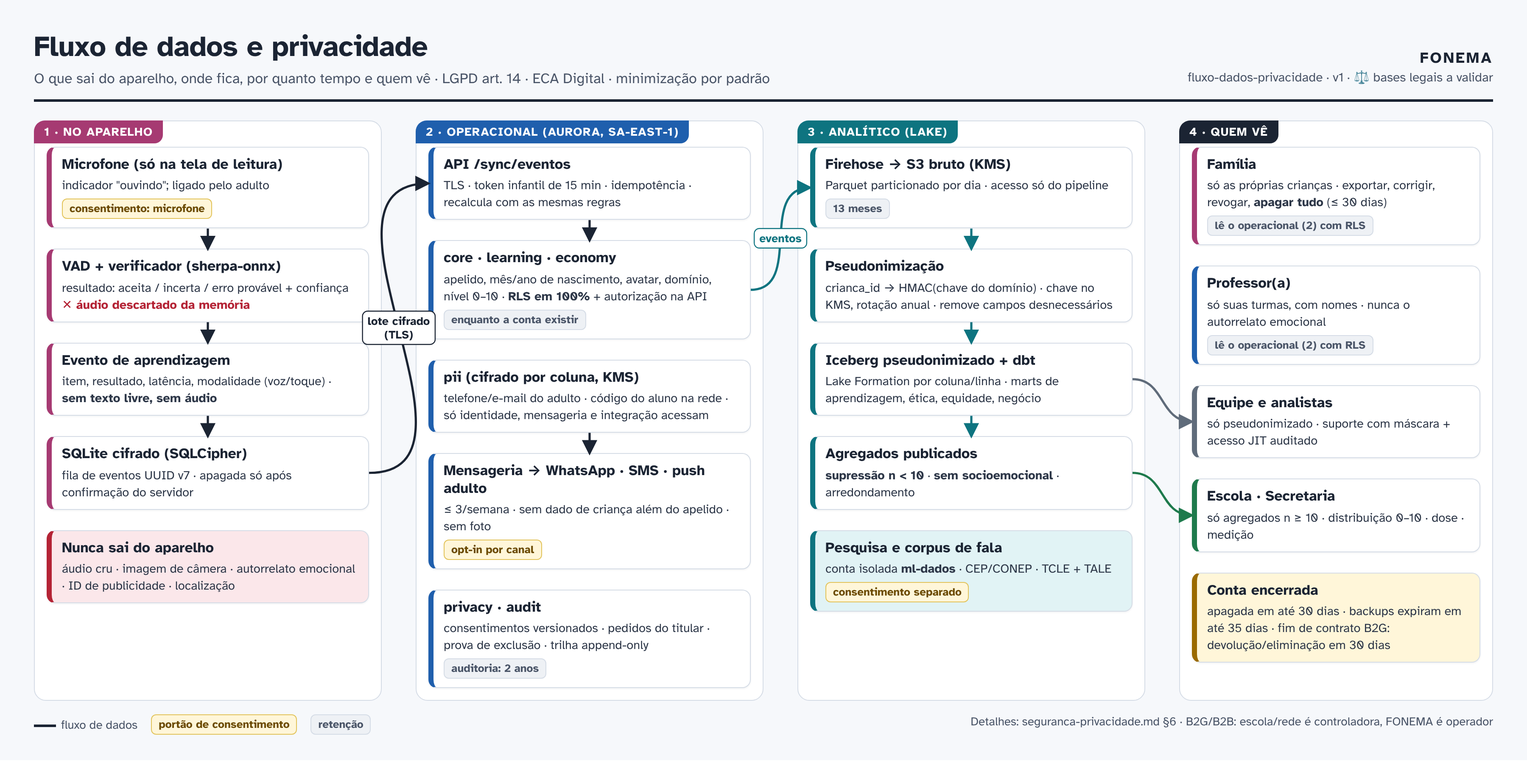
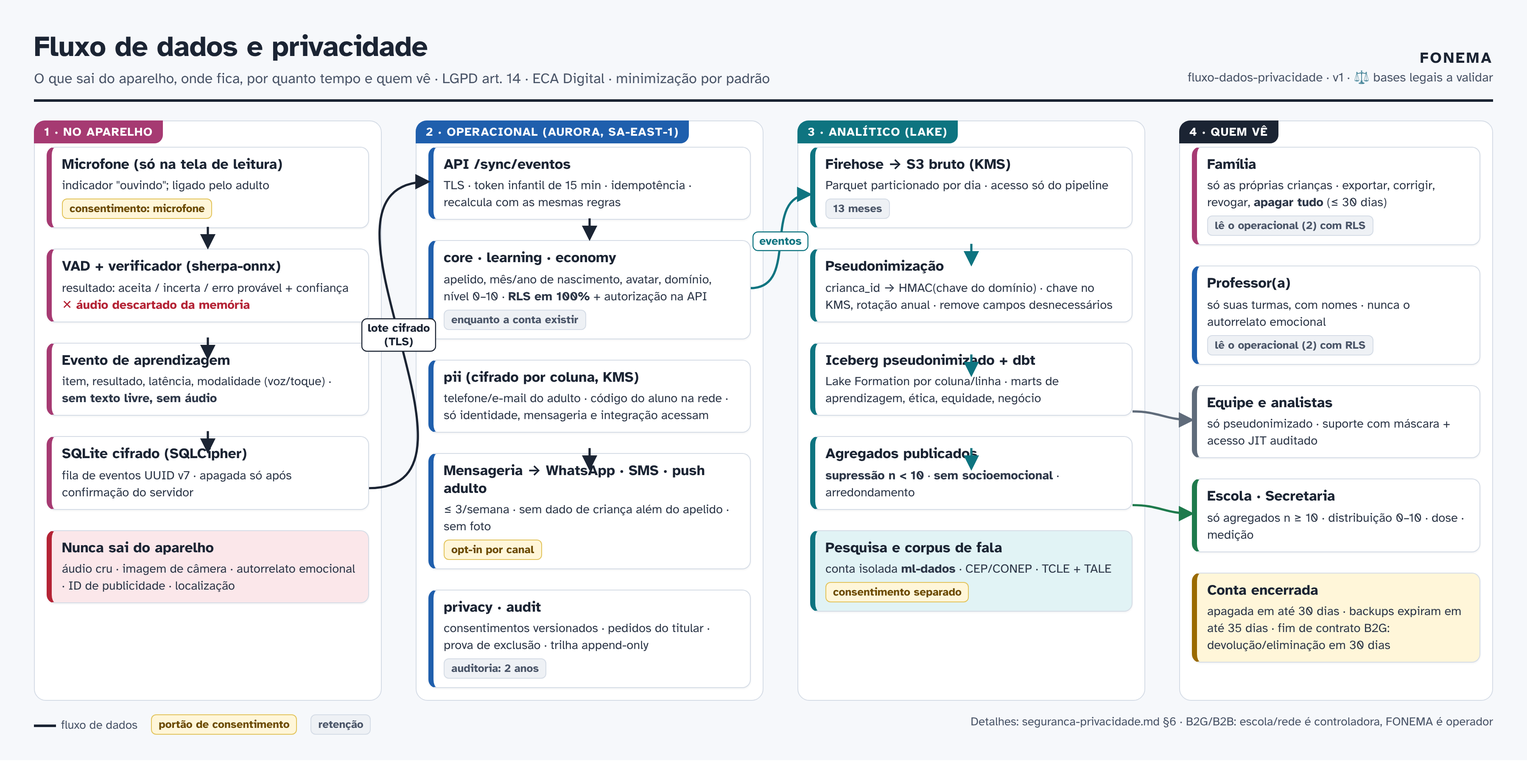
docs(proposta-unificada): arquitetura e infraestrutura unificada
Claude-Session: https://claude.ai/code/session_01XFnar5EqvbkeuXqeMQuF5Q

diff --git a/docs/propostas/06-fonema-unificada/mundo-3d/js/world.js b/docs/propostas/06-fonema-unificada/mundo-3d/js/world.js
@@ -98,7 +98,7 @@ export function makeSea(islands) {
 
 // ---------------- ILHAS-BIOMA ----------------
 export function buildIslands(ctx) {
-  const { m, d, w, group, renderer, dyn, labelSprites } = ctx;
+  const { m, d, f, w, group, renderer, dyn, labelSprites } = ctx;
   for (const I of ISLANDS) {
     const rnd = rng(I.x * 13 + I.z * 7 + 99);
     const occ = [];
@@ -113,7 +113,7 @@ export function buildIslands(ctx) {
     };
     const at = (lx, lz) => [I.x + lx, I.z + lz];
     const B = BIOMES[I.id];
-    if (B) B({ I, m, d, w, group, renderer, rnd, occ, scatter, at, GY, dyn, free });
+    if (B) B({ I, m, f, d, w, group, renderer, rnd, occ, scatter, at, GY, dyn, free });
     // pedras na praia
     for (let i = 0; i < Math.round(I.r / 3); i++) { const a = rnd() * 6.28, rr = I.r * (1.03 + rnd() * 0.12); N.rock(d, I.x + Math.cos(a) * rr, 0.1, I.z + Math.sin(a) * rr, 0.6 + rnd(), '#CDBFA8', rnd); }
     // bandeirola de progresso (ilhas concluídas / atual)
@@ -135,8 +135,8 @@ export function buildIslands(ctx) {
   }
   for (const E of EXTRA_ISLETS) {
     N.islandTerrain(m, { ...E, seed: E.x + 3, grass: '#A7D98A', grass2: '#B6E096' });
-    const rnd = rng(E.x);
-    N.palm(m, E.x, E.H, E.z, 1.2, rnd, 0.3);
+    const rnd = rng(E.x); const f = ctx.f;
+    N.palm(f, E.x, E.H, E.z, 1.2, rnd, 0.3);
     bookStack(m, E.x + 2.5, E.H, E.z + 1, rnd, 4);
   }
 }
@@ -159,7 +159,7 @@ function house(m, w, x, y, z, ry, wall, roof, s = 1) {
 }
 
 const BIOMES = {
-  vogais({ I, m, d, group, renderer, rnd, scatter, GY, occ }) {
+  vogais({ I, m, f, d, group, renderer, rnd, scatter, GY, occ }) {
     const letters = ['A', 'E', 'I', 'O', 'U'];
     const cols = ['#6B5BA8', '#7D6BC0', '#5E4E9C', '#8A78C9', '#6B5BA8'];
     letters.forEach((L, i) => {
@@ -178,10 +178,10 @@ const BIOMES = {
       m.add(G.cone8, c, M(x, GY + 1.6, z, 0, 0, 0, 4, 3.2, 4), { grad: 0.2 }); m.add(G.cone8, '#FFFBF4', M(x, GY + 1.61, z, 0, Math.PI / 8, 0, 3.9, 3.18, 3.9));
       m.add(G.box, '#7A4B2E', M(x, GY + 0.6, z + 1.5, 0, 0, 0, 0.9, 1.2, 0.3));
     });
-    scatter(6, 1.6, (x, z) => N.palm(m, x, GY, z, 1.05 + rnd() * 0.3, rnd, 0.35));
+    scatter(6, 1.6, (x, z) => N.palm(f, x, GY, z, 1.05 + rnd() * 0.3, rnd, 0.35));
     scatter(40, 0.4, (x, z, k) => N.flower(d, x, GY, z, ['#A797D6', '#F2B33D', '#FFFBF4'][k % 3], rnd, 1.1));
   },
-  mata({ I, m, d, w, group, rnd, scatter, GY, occ }) {
+  mata({ I, m, f, d, w, group, rnd, scatter, GY, occ }) {
     const mx = I.x - 4, mz = I.z - 6; occ.push([mx, mz, 9]);
     m.add(G.cone8, '#3E8A4E', M(mx, GY + 6.5, mz, 0, 0.3, 0, 20, 13, 18), { grad: 0.35, jitter: 0.08 });
     m.add(G.cone8, '#8E8A80', M(mx, GY + 11.8, mz, 0, 0.3, 0, 6.8, 3.6, 6.2), { grad: 0.3 });
@@ -192,8 +192,8 @@ const BIOMES = {
     m.add(G.cyl16, '#8FE0E8', M(mx + 2.8, GY + 0.1, mz + 10.5, 0, 0, 0, 6, 0.2, 4), { jitter: 0.02 });
     d.add(G.ico1, '#F4FFF8', M(mx + 2.7, GY + 0.35, mz + 9.2, 0, 0, 0, 2.4, 0.6, 1.2));
     occ.push([mx + 2.8, mz + 10.5, 3.2]);
-    scatter(34, 1.8, (x, z, k) => N.treeRound(m, x, GY, z, 0.9 + rnd() * 0.6, ['#2F8A49', '#3B9A52', '#2A7E43'][k % 3], '#2F7D45', rnd));
-    scatter(10, 1.5, (x, z) => N.palm(m, x, GY, z, 1.0 + rnd() * 0.3, rnd, 0.15));
+    scatter(34, 1.8, (x, z, k) => N.treeRound(f, x, GY, z, 0.9 + rnd() * 0.6, ['#2F8A49', '#3B9A52', '#2A7E43'][k % 3], '#2F7D45', rnd));
+    scatter(10, 1.5, (x, z) => N.palm(f, x, GY, z, 1.0 + rnd() * 0.3, rnd, 0.15));
     scatter(30, 0.4, (x, z) => { d.add(G.cone5, '#E04A5A', M(x, GY + 0.4, z, 0, rnd(), 0, 0.5, 0.8, 0.5)); d.add(G.cone5, '#4F9A48', M(x, GY + 0.3, z, 0, rnd(), 0, 0.8, 0.5, 0.8)); });
     // anel "você está aqui"
     const ring = new THREE.Mesh(new THREE.RingGeometry(3.2, 4.0, 48), new THREE.MeshBasicMaterial({ color: '#F2B33D', transparent: true, opacity: 0.9 }));
@@ -201,7 +201,7 @@ const BIOMES = {
     occ.push([I.x + 9, I.z + 10, 4.5]);
     ctxPins.push(new THREE.Vector3(I.x + 9, GY, I.z + 10));
   },
-  pampa({ I, m, d, group, rnd, scatter, GY, occ, dyn }) {
+  pampa({ I, m, f, d, group, rnd, scatter, GY, occ, dyn }) {
     // cata-vento (pás animadas)
     const wx = I.x + 5, wz = I.z - 3; occ.push([wx, wz, 2]);
     m.add(G.taper6, '#FFFBF4', M(wx, GY + 4.5, wz, 0, 0, 0, 1.1, 9, 1.1));
@@ -216,11 +216,11 @@ const BIOMES = {
     for (let i = 0; i < 14; i++) { const x = I.x - 12 + i * 1.9, z = I.z + 10; m.add(G.cyl5, '#8A5A3B', M(x, GY + 0.6, z, 0, 0, 0, 0.18, 1.2, 0.18)); }
     m.add(G.box, '#A86F3F', M(I.x - 12 + 13 * 0.95, GY + 0.9, I.z + 10, 0, 0, 0, 24.7, 0.14, 0.1));
     m.add(G.box, '#A86F3F', M(I.x - 12 + 13 * 0.95, GY + 0.5, I.z + 10, 0, 0, 0, 24.7, 0.14, 0.1));
-    scatter(6, 3.0, (x, z) => N.araucaria(m, x, GY, z, 1.2 + rnd() * 0.4, rnd));
+    scatter(6, 3.0, (x, z) => N.araucaria(f, x, GY, z, 1.2 + rnd() * 0.4, rnd));
     scatter(12, 1.0, (x, z) => N.sheep(m, x, GY, z, rnd() * 6, rnd));
     scatter(60, 0.3, (x, z) => N.tuft(d, x, GY, z, 1.1, '#93C25A', rnd));
   },
-  pantanal({ I, m, d, rnd, scatter, GY, occ }) {
+  pantanal({ I, m, f, d, rnd, scatter, GY, occ }) {
     [[-6, -4, 7, 5], [7, 5, 6, 4.5], [-2, 9, 4, 3]].forEach(([a, b, rx, rz]) => {
       const x = I.x + a, z = I.z + b; occ.push([x, z, Math.max(rx, rz)]);
       m.add(G.cyl16, '#BFAF87', M(x, GY + 0.04, z, 0, rnd(), 0, rx * 2.2, 0.12, rz * 2.2), { jitter: 0.05 });
@@ -229,23 +229,23 @@ const BIOMES = {
     });
     scatter(5, 1.2, (x, z) => N.tuiuiu(m, x, GY, z, rnd() * 6));
     scatter(5, 1.0, (x, z) => N.capybara(m, x, GY, z, rnd() * 6));
-    scatter(10, 1.5, (x, z) => N.palm(m, x, GY, z, 1.1 + rnd() * 0.3, rnd, 0.1));
-    scatter(8, 1.8, (x, z) => N.treeRound(m, x, GY, z, 0.9 + rnd() * 0.3, '#6DB85C', '#5DA851', rnd));
+    scatter(10, 1.5, (x, z) => N.palm(f, x, GY, z, 1.1 + rnd() * 0.3, rnd, 0.1));
+    scatter(8, 1.8, (x, z) => N.treeRound(f, x, GY, z, 0.9 + rnd() * 0.3, '#6DB85C', '#5DA851', rnd));
     scatter(60, 0.3, (x, z) => N.tuft(d, x, GY, z, 1.2, '#5DAA4E', rnd));
   },
-  cerrado({ I, m, d, rnd, scatter, GY }) {
-    scatter(8, 2.0, (x, z, k) => { N.treeIpe(m, x, GY, z, 1.0 + rnd() * 0.4, k % 2 ? '#F6C945' : '#E77FB0', rnd); N.petals(d, x, GY, z, 1, k % 2 ? '#F8D86A' : '#F2A5C8', rnd, 8); });
+  cerrado({ I, m, f, d, rnd, scatter, GY }) {
+    scatter(8, 2.0, (x, z, k) => { N.treeIpe(f, x, GY, z, 1.0 + rnd() * 0.4, k % 2 ? '#F6C945' : '#E77FB0', rnd); N.petals(d, x, GY, z, 1, k % 2 ? '#F8D86A' : '#F2A5C8', rnd, 8); });
     scatter(7, 1.0, (x, z) => m.add(G.cone6, '#C46A3B', M(x, GY + 1.0, z, 0, rnd(), 0, 1.4, 2.2 + rnd(), 1.4), { grad: 0.3 }));
-    scatter(8, 1.5, (x, z) => N.dryTree(m, x, GY, z, 0.9 + rnd() * 0.3, rnd));
+    scatter(8, 1.5, (x, z) => N.dryTree(f, x, GY, z, 0.9 + rnd() * 0.3, rnd));
     scatter(70, 0.3, (x, z) => N.tuft(d, x, GY, z, 1.3, '#D8C46A', rnd));
   },
-  caatinga({ I, m, d, w, rnd, scatter, GY, occ }) {
+  caatinga({ I, m, f, d, w, rnd, scatter, GY, occ }) {
     house(m, w, I.x - 3, GY, I.z + 4, 0.4, '#F4EBDD', '#B5502C', 1.2); occ.push([I.x - 3, I.z + 4, 3.5]);
     scatter(12, 1.4, (x, z) => N.cactus(m, x, GY, z, 0.9 + rnd() * 0.6, rnd));
-    scatter(8, 1.4, (x, z) => N.dryTree(m, x, GY, z, 1.0, rnd));
+    scatter(8, 1.4, (x, z) => N.dryTree(f, x, GY, z, 1.0, rnd));
     scatter(14, 1.0, (x, z) => N.rock(m, x, GY, z, 0.8 + rnd() * 1.2, '#C9A97F', rnd));
   },
-  amazonia({ I, m, d, w, group, rnd, scatter, GY, occ }) {
+  amazonia({ I, m, f, d, w, group, rnd, scatter, GY, occ }) {
     // rio cruzando a ilha
     const rv = new THREE.Mesh(new THREE.PlaneGeometry(I.r * 2.3, 7, 20, 1), new THREE.MeshStandardMaterial({ color: '#3FA6B8', roughness: 0.35 }));
     const pa = rv.geometry.attributes.position; for (let i = 0; i < pa.count; i++) pa.setY(i, pa.getY(i) + Math.sin(pa.getX(i) * 0.15) * 3);
@@ -256,11 +256,11 @@ const BIOMES = {
     const hx = I.x + 8, hz = I.z + 10; occ.push([hx, hz, 3]);
     [[-1.4, -1.2], [1.4, -1.2], [-1.4, 1.2], [1.4, 1.2]].forEach(([a, b]) => m.add(G.cyl5, '#7A4B2E', M(hx + a, GY + 0.8, hz + b, 0, 0, 0, 0.25, 1.6, 0.25)));
     house(m, w, hx, GY + 1.5, hz, -0.4, '#C98E58', '#C9B061', 1.0);
-    scatter(40, 2.2, (x, z, k) => N.bigTree(m, x, GY, z, 0.75 + rnd() * 0.45, rnd, ['#2F8A49', '#267A3E', '#3A9A50'][k % 3], '#2A8143'));
-    scatter(12, 1.4, (x, z) => N.palm(m, x, GY, z, 1.2, rnd, 0.1));
+    scatter(40, 2.2, (x, z, k) => N.bigTree(f, x, GY, z, 0.75 + rnd() * 0.45, rnd, ['#2F8A49', '#267A3E', '#3A9A50'][k % 3], '#2A8143'));
+    scatter(12, 1.4, (x, z) => N.palm(f, x, GY, z, 1.2, rnd, 0.1));
     scatter(6, 0.5, (x, z) => d.add(G.ico1, '#E0403A', M(x, GY + 5 + rnd() * 2, z, 0, 0, 0, 0.6, 0.45, 0.9)));
   },
-  litoral({ I, m, d, w, rnd, scatter, GY, occ }) {
+  litoral({ I, m, f, d, w, rnd, scatter, GY, occ }) {
     // farol listrado
     const fx = I.x + 8, fz = I.z - 6; occ.push([fx, fz, 2.5]);
     for (let i = 0; i < 5; i++) m.add(G.cyl12, i % 2 ? '#FFFBF4' : '#C9553A', M(fx, GY + 1 + i * 2, fz, 0, 0, 0, 3.2 - i * 0.22, 2, 3.2 - i * 0.22));
@@ -269,12 +269,12 @@ const BIOMES = {
     m.add(G.cone8, '#C9553A', M(fx, GY + 12.5, fz, 0, 0, 0, 2.2, 1.3, 2.2));
     // casinhas coloridas
     [['#F2B33D', -8, 2], ['#7FB3D5', -4, 6], ['#E58FA4', 0, 8.5], ['#7DC48A', 4.5, 8]].forEach(([c, a, b]) => { house(m, w, I.x + a, GY, I.z + b, 0.2, c, '#A9472A', 0.9); occ.push([I.x + a, I.z + b, 2.4]); });
-    scatter(9, 1.4, (x, z) => N.palm(m, x, GY, z, 1.1 + rnd() * 0.3, rnd, 0.4));
+    scatter(9, 1.4, (x, z) => N.palm(f, x, GY, z, 1.1 + rnd() * 0.3, rnd, 0.4));
     // guarda-sóis na areia
     for (let i = 0; i < 4; i++) { const a = 1.2 + i * 0.35, rr = I.r * 1.2; const x = I.x + Math.cos(a) * rr, z = I.z + Math.sin(a) * rr;
       m.add(G.cyl5, '#FFFBF4', M(x, 1.6, z, 0, 0, 0, 0.1, 3, 0.1)); m.add(G.cone8, ['#B23C62', '#F2B33D', '#1F6E82', '#E07F62'][i], M(x, 3.1, z, 0, 0, 0, 3, 0.8, 3)); }
   },
-  cidade({ I, m, d, w, group, renderer, rnd, scatter, GY, occ }) {
+  cidade({ I, m, f, d, w, group, renderer, rnd, scatter, GY, occ }) {
     m.add(G.cyl24, '#E6D6BE', M(I.x, GY + 0.06, I.z, 0, 0, 0, I.r * 1.2, 0.12, I.r * 1.2), { jitter: 0.03 });
     const letters = 'BCDFLMNPRSTV'.split('');
     const cols = ['#1F6E82', '#B23C62', '#2F8A49', '#E07F62', '#F2B33D', '#6B5BA8'];
@@ -293,9 +293,9 @@ const BIOMES = {
     // torre do relógio
     m.add(G.box, '#FFFBF4', M(I.x, GY + 5, I.z, 0, 0.3, 0, 3.2, 10, 3.2)); m.add(G.pyr, '#1F6E82', M(I.x, GY + 11.5, I.z, 0, 0.3, 0, 5, 3, 5));
     m.add(G.cyl16, '#F2B33D', M(I.x, GY + 8.4, I.z, Math.PI / 2, 0.3, 0, 2.2, 3.4, 2.2)); occ.push([I.x, I.z, 3]);
-    scatter(10, 1.2, (x, z) => N.treeRound(m, x, GY, z, 0.8, '#5DAE57', '#4C9A4A', rnd));
+    scatter(10, 1.2, (x, z) => N.treeRound(f, x, GY, z, 0.8, '#5DAE57', '#4C9A4A', rnd));
   },
-  livros({ I, m, d, rnd, scatter, GY, occ }) {
+  livros({ I, m, f, d, rnd, scatter, GY, occ }) {
     // livro aberto gigante
     const x = I.x - 2, z = I.z + 1; occ.push([x, z, 6]);
     m.add(G.box, '#B23C62', M(x, GY + 0.35, z, 0, 0.3, 0, 11, 0.5, 7.6));
@@ -308,7 +308,7 @@ const BIOMES = {
       m.add(G.box, '#FFF4E2', M(bx, GY + h / 2, bz, 0, i * 0.4, 0, 1.2, h - 0.3, 4.5));
     });
     scatter(4, 2.2, (x2, z2) => bookStack(m, x2, GY, z2, rnd, 3 + Math.floor(rnd() * 3), 0.8));
-    scatter(6, 1.4, (x2, z2) => N.treeRound(m, x2, GY, z2, 0.9, '#6CB85E', '#5DAE57', rnd));
+    scatter(6, 1.4, (x2, z2) => N.treeRound(f, x2, GY, z2, 0.9, '#6CB85E', '#5DAE57', rnd));
   },
 };
 export const ctxPins = [];

diff --git a/docs/propostas/06-fonema-unificada/lojinha-emblemas/fontes/tela-casa-decorada.html b/docs/propostas/06-fonema-unificada/lojinha-emblemas/fontes/tela-casa-decorada.html
@@ -1,0 +1,88 @@
+<!doctype html><html lang="pt-BR"><head><meta charset="utf-8"><link rel="stylesheet" href="common.css">
+<style>
+body{background:#F3D9B4}
+.a{position:absolute}
+.top{position:absolute;left:20px;right:20px;top:14px;display:flex;align-items:center;gap:12px;z-index:20}
+.voltar{width:54px;height:54px;border-radius:18px;background:#FFFBF4;box-shadow:0 4px 0 #C9A57A;display:flex;align-items:center;justify-content:center}
+.titulo{font-family:Fredoka;font-weight:700;font-size:26px;background:#FFFBF4;border-radius:18px;padding:8px 18px;box-shadow:0 4px 0 #C9A57A}
+.modo{display:flex;background:#FFFBF4;border-radius:16px;padding:4px;box-shadow:0 4px 0 #C9A57A}
+.modo span{font-family:Fredoka;font-weight:600;font-size:15px;padding:8px 14px;border-radius:12px}
+.modo .on{background:#2F6B43;color:#fff}
+.gav{position:absolute;left:20px;bottom:14px;width:900px;height:112px;border-radius:22px;background:rgba(255,251,244,.94);box-shadow:0 -2px 0 #EAD8BE,0 10px 24px -6px rgba(70,35,10,.45);z-index:20;padding:8px 14px}
+.gav .its{display:flex;gap:10px;margin-top:4px}
+.gav .g{width:74px;height:74px;border-radius:16px;background:#FFF1D8;border:2px solid #F1E2CB;display:flex;align-items:center;justify-content:center}
+.vit{position:absolute;left:944px;top:96px;width:316px;height:560px;z-index:6}
+.sel{position:absolute;border:3px dashed #F2B33D;border-radius:20px;z-index:9}
+.hd{position:absolute;width:34px;height:34px;border-radius:50%;background:#FFFBF4;box-shadow:0 3px 0 #C9A57A;display:flex;align-items:center;justify-content:center}
+</style></head><body>
+<svg class="a" style="left:0;top:0" width="1280" height="800" viewBox="0 0 1280 800" id="sala"></svg>
+<div id="moveis"></div>
+<div class="top">
+ <div class="voltar"><svg width="30" height="30" viewBox="0 0 20 20"><path d="M12,4 L6,10 L12,16" stroke="#7A4B2E" stroke-width="3.2" fill="none" stroke-linecap="round" stroke-linejoin="round"/></svg></div>
+ <div class="titulo">Casa da Lia</div>
+ <div class="modo"><span>Passear</span><span class="on">Arrumar</span></div>
+ <div style="flex:1"></div>
+ <div class="btn btn-sol" style="height:54px;padding:0 20px;font-size:17px"><svg width="24" height="24" viewBox="0 0 24 24"><rect x="3" y="6" width="18" height="13" rx="3" fill="#3B2A20"/><circle cx="12" cy="12.5" r="4" fill="#F2B33D"/><rect x="8" y="3" width="8" height="4" rx="1" fill="#3B2A20"/></svg>Mostrar para a família</div>
+</div>
+<div class="vit" id="vit"></div>
+<div class="gav"><div class="t" style="font-weight:700;font-size:15px;display:flex;justify-content:space-between"><span>Meus guardados <span style="font-family:Andika;font-weight:400;color:#6E5D52;font-size:13px">· toque e arraste para a casa</span></span><span style="font-family:Andika;font-weight:400;color:#6E5D52;font-size:13px">Tudo que você compra é seu para sempre</span></div><div class="its" id="its"></div></div>
+<div class="nota" style="left:952px;top:676px;max-width:300px">"Mostrar" envia uma foto da casa <b>só para o painel da família</b>. Sem visitar casas de outras crianças, sem curtidas, sem ranking.</div>
+<script src="base.js"></script><script src="chars.js"></script>
+<script>
+const {Ctx,lt,dk}=FX;
+(function(){const c=new Ctx();
+const wall=c.stops([[0,'#FBE7C6'],[1,'#F3D2A2']]);
+let stripes='';for(let x=0;x<1280;x+=48)stripes+=`<rect x="${x}" y="0" width="24" height="560" fill="#fff" opacity=".18"/>`;
+let dots='';for(let x=24;x<1280;x+=48)for(let y=40;y<540;y+=60)dots+=`<circle cx="${x+((y/60)%2)*0}" cy="${y}" r="3" fill="#E8B57A" opacity=".5"/>`;
+let planks='';for(let i=-12;i<=28;i++){const xb=640+i*90, xt=640+i*48;planks+=`<path d="M${xt},560 L${xb},800" stroke="#9A6234" stroke-width="2" opacity=".35"/>`}
+for(let y of [600,650,712])planks+=`<path d="M0,${y} H1280" stroke="#9A6234" stroke-width="1.5" opacity=".25"/>`;
+// janela com a vila
+const vila=`<g transform="translate(372,120)"><rect x="-14" y="-14" width="288" height="248" rx="14" fill="${c.l('#FFFBF4')}" stroke="#C9A57A" stroke-width="4"/>
+<clipPath id="jan"><rect width="260" height="220" rx="6"/></clipPath><g clip-path="url(#jan)"><rect width="260" height="220" fill="${c.stops([[0,'#8FCFE3'],[1,'#DFF1F2']])}"/>
+<circle cx="210" cy="44" r="20" fill="${c.r('#F2B33D',{hi:.6})}"/><ellipse cx="60" cy="40" rx="30" ry="10" fill="#fff" opacity=".85"/><ellipse cx="80" cy="34" rx="20" ry="10" fill="#fff" opacity=".85"/>
+<path d="M0,150 q70,-40 140,-10 q60,-30 120,-6 v90 h-260z" fill="${c.l('#7FB06A')}"/><path d="M0,180 q120,-24 260,0 v40 h-260z" fill="${c.l('#5E9E5A')}"/>
+<g transform="translate(16,96) scale(.55)">${padaria(true).replace(/<\/?svg[^>]*>/g,'')}</g>
+<g transform="translate(150,104) scale(.45)">${item('coreto').replace(/<\/?svg[^>]*>/g,'')}</g>
+<g transform="translate(206,118) scale(.32)">${item('moinho').replace(/<\/?svg[^>]*>/g,'')}</g></g>
+<rect x="128" y="0" width="6" height="220" fill="#FFFBF4"/><rect x="0" y="108" width="260" height="6" fill="#FFFBF4"/>
+<path d="M-24,-20 q40,120 10,250 h-20z M284,-20 q-40,120 -10,250 h20z" fill="${c.l('#B23C62')}" opacity=".95"/>
+<rect x="-34" y="-26" width="328" height="12" rx="6" fill="${c.l('#7A4B2E')}"/>
+<rect x="-24" y="230" width="308" height="14" rx="5" fill="${c.l('#C08A4E')}"/></g>`;
+sala.innerHTML=c.svg(`<rect width="1280" height="560" fill="${wall}"/>${stripes}
+<rect y="530" width="1280" height="30" fill="${c.l('#C08A4E')}"/>
+<path d="M0,560 H1280 V800 H0Z" fill="${c.stops([[0,'#C99A66'],[1,'#B07D4A']])}"/>${planks}
+<rect width="1280" height="800" fill="${c.stops([[0,'#fff',0],[.6,'#fff',0],[1,'#3b1d0c',.18]],[50,40,80],true)}"/>
+${vila}${(()=>{const cols=['#D9483B','#F2B33D','#1F6E82','#2F6B43','#B23C62','#E8792E','#6B5BA8'];let o='';for(let seg=0;seg<3;seg++){const x0=seg*430-20,x1=x0+440;o+=`<path d="M${x0},78 Q${(x0+x1)/2},128 ${x1},78" stroke="#7A4B2E" stroke-width="3" fill="none"/>`;for(let i=1;i<11;i++){const t=i/11,x=x0+(x1-x0)*t,y=78+4*t*(1-t)*25-1;const col=cols[(i+seg*3)%7];o+=`<path d="M${x-14},${y} h28 l-14,30z" fill="${c.l(col,{dir:[0,0,1,1]})}" stroke="${FX.S(col)}" stroke-width="1.5"/>`}}return o})()}
+<ellipse cx="500" cy="200" rx="300" ry="220" fill="#FFF6D8" opacity=".25"/>`,'0 0 1280 800','width="1280" height="800"').replace(/^<svg[^>]*>|<\/svg>$/g,'');
+})();
+const P=(k,x,y,s,extra='')=>`<div class="a" style="left:${x}px;top:${y}px;${extra}">${item(k,`width="${s}" height="${s}"`)}</div>`;
+let m='';
+// bandeirinhas no teto
+m+=P('quadro',212,128,132);
+m+=P('pandeiro',672,130,96);
+m+=P('estante',8,268,300);
+m+=P('rede',650,190,250);
+m+=P('sofa',330,340,290);
+m+=P('vaso',262,400,140);
+m+=P('tapete',370,430,360);
+m+=P('capivara',450,486,160);
+m+=P('sanfona',160,552,110);
+m+=`<div class="a" style="left:750px;top:330px">${lia({pose:'acena',bone:'#D9483B',attrs:'width="176" height="260"'})}</div>`;
+m+=`<div class="a" style="left:640px;top:556px">${bolota({attrs:'width="140" height="98"'})}</div>`;
+m+=`<div class="sel" style="left:446px;top:496px;width:170px;height:132px"></div>
+<div class="hd" style="left:430px;top:480px;z-index:10"><svg width="18" height="18" viewBox="0 0 20 20"><path d="M10,2 v16 M2,10 h16 M10,2 l-3,3 M10,2 l3,3 M10,18 l-3,-3 M10,18 l3,-3 M2,10 l3,-3 M2,10 l3,3 M18,10 l-3,-3 M18,10 l-3,3" stroke="#7A4B2E" stroke-width="2" fill="none"/></svg></div>
+<div class="hd" style="left:598px;top:480px;z-index:10"><svg width="18" height="18" viewBox="0 0 20 20"><path d="M16,10 a6,6 0 1 1 -2,-4.5 M16,3 v4 h-4" stroke="#7A4B2E" stroke-width="2.2" fill="none" stroke-linecap="round"/></svg></div>
+<div class="bal" style="left:478px;top:446px;font-size:13px;padding:5px 10px;z-index:11;font-family:Fredoka;font-weight:600">CAPIVARA</div>`;
+moveis.innerHTML=m;
+// vitrine
+vit.innerHTML=`<div style="position:absolute;inset:0;border-radius:22px;background:linear-gradient(180deg,#9A6234,#7A4B2E);box-shadow:0 8px 0 #5A3218,0 18px 26px -8px rgba(60,30,10,.5)"></div>
+<div style="position:absolute;left:12px;right:12px;top:56px;bottom:14px;border-radius:12px;background:linear-gradient(160deg,rgba(255,255,255,.55),rgba(220,240,245,.35) 40%,rgba(255,255,255,.15));box-shadow:inset 0 0 0 3px rgba(255,255,255,.35)"></div>
+<div class="t" style="position:absolute;left:0;right:0;top:12px;text-align:center"><span style="background:#F2B33D;color:#3B2A20;font-weight:700;font-size:17px;letter-spacing:2px;padding:5px 16px;border-radius:12px;box-shadow:0 3px 0 #B9781A">MINHA VITRINE</span></div>
+${[200,356,500].map(y=>`<div style="position:absolute;left:12px;right:12px;top:${y}px;height:12px;background:linear-gradient(180deg,#C0864E,#8A5228)"></div>`).join('')}
+<div style="position:absolute;left:20px;top:82px;display:flex;gap:2px">${[['persist','ouro'],['som','prata','M'],['poupador','prata']].map(([f,t,L])=>emblema(f,t,{letra:L,attrs:'width="90" height="99"'})).join('')}</div>
+<div style="position:absolute;left:26px;top:224px;display:flex;gap:6px">${['fig_ipe','fig_onca','fig_caju'].map(k=>item(k,'width="84" height="84"')).join('')}</div>
+<div class="ad" style="position:absolute;left:24px;top:314px;font-size:11.5px;color:#FFF4E2">Figurinhas: toque e elas falam a palavra</div>
+<div style="position:absolute;left:30px;top:378px;display:flex;gap:16px;align-items:flex-end">${item('banca','width="110" height="110"')}<div style="background:#FFFBF4;border-radius:12px;padding:8px 10px;width:130px;font-size:12.5px;line-height:1.25;box-shadow:0 3px 0 #C9A57A"><b class="t" style="font-size:14px">12 livros lidos</b><br>"A noite do lobo" é o mais novo</div></div>
+<div class="ad" style="position:absolute;left:20px;right:20px;top:516px;font-size:11.5px;color:#FFF4E2;line-height:1.25">A vitrine guarda o que você <b>conquistou</b>: emblemas, figurinhas e livros lidos.</div>`;
+its.innerHTML=['pipa','piao','chocalho','mascara','fogueira','tiara','mochila','tambor','micanga','fonte'].map(k=>`<div class="g">${item(k,'width="62" height="62"')}</div>`).join('');
+</script></body></html>

diff --git a/docs/propostas/06-fonema-unificada/mundo-3d/js/vila.js b/docs/propostas/06-fonema-unificada/mundo-3d/js/vila.js
@@ -10,7 +10,7 @@ export const VILA = { x: 0, z: 0, r: 44, H: 2.5 };
 const GY = VILA.H;
 
 export function buildVila(ctx) {
-  const { m, d, w, thin, group, renderer, signMats } = ctx;
+  const { m, d, f, w, thin, group, renderer, signMats } = ctx;
   const rnd = rng(42);
   const occ = []; // áreas ocupadas (x, z, raio)
   const lampTops = [];
@@ -324,8 +324,8 @@ export function buildVila(ctx) {
     m.add(G.box, '#B23C62', M(cp.x, GY + 1.3, cp.z, 0, casa.ry, 0, 0.5, 0.4, 0.7));
     N.dog(m, L.pt(1.6, 0, dz + 2.6).x, GY + 0.35, L.pt(1.6, 0, dz + 2.6).z, casa.ry + 0.8);
     N.cat(m, L.pt(3.5, 0, dz + 0.4).x, GY + 0.5, L.pt(3.5, 0, dz + 0.4).z, casa.ry - 0.6);
-    const mt = L.pt(-8.2, 0, 1.0); N.treeFruit(m, mt.x, GY, mt.z, 1.35, '#F28B2E', rnd); occupy(mt.x, mt.z, 2.6);
-    const mt2 = L.pt(8.4, 0, -1.0); N.banana(m, mt2.x, GY, mt2.z, 1.3, rnd); occupy(mt2.x, mt2.z, 1.8);
+    const mt = L.pt(-8.2, 0, 1.0); N.treeFruit(f, mt.x, GY, mt.z, 1.35, '#F28B2E', rnd); occupy(mt.x, mt.z, 2.6);
+    const mt2 = L.pt(8.4, 0, -1.0); N.banana(f, mt2.x, GY, mt2.z, 1.3, rnd); occupy(mt2.x, mt2.z, 1.8);
     for (let i = 0; i < 14; i++) { const p = L.pt(-5.4 + rnd() * 1.4, 0, dz + 0.6 + rnd() * 3.4); N.flower(d, p.x, GY, p.z, ['#E8547A', '#F2B33D', '#FFFBF4'][i % 3], rnd, 1.1); }
     occupy(L.pt(0, 0, dz + 2.2).x, L.pt(0, 0, dz + 2.2).z, 5.5);
   }
@@ -493,14 +493,14 @@ export function buildVila(ctx) {
     ['palm', -7, 37, 1.25], ['ipeAmarelo', -36, 8, 1.1], ['banana', -16, 16, 1.0],
   ];
   for (const [k, x, z, s] of trees) {
-    if (k === 'ipeRosa') { N.treeIpe(m, x, GY, z, s, '#E77FB0', rnd); N.petals(d, x, GY, z, s, '#F2A5C8', rnd); }
-    else if (k === 'ipeAmarelo') { N.treeIpe(m, x, GY, z, s, '#F6C945', rnd); N.petals(d, x, GY, z, s, '#F8D86A', rnd); }
-    else if (k === 'laranja') N.treeFruit(m, x, GY, z, s, '#F28B2E', rnd);
-    else if (k === 'manga') N.treeFruit(m, x, GY, z, s, '#F2C14A', rnd);
-    else if (k === 'caju') N.treeFruit(m, x, GY, z, s, '#E04A3A', rnd);
-    else if (k === 'banana') N.banana(m, x, GY, z, s, rnd);
-    else if (k === 'palm') N.palm(m, x, GY, z, s, rnd, 0.3);
-    else N.treeRound(m, x, GY, z, s, '#5DAE57', '#4C9A4A', rnd);
+    if (k === 'ipeRosa') { N.treeIpe(f, x, GY, z, s, '#E77FB0', rnd); N.petals(d, x, GY, z, s, '#F2A5C8', rnd); }
+    else if (k === 'ipeAmarelo') { N.treeIpe(f, x, GY, z, s, '#F6C945', rnd); N.petals(d, x, GY, z, s, '#F8D86A', rnd); }
+    else if (k === 'laranja') N.treeFruit(f, x, GY, z, s, '#F28B2E', rnd);
+    else if (k === 'manga') N.treeFruit(f, x, GY, z, s, '#F2C14A', rnd);
+    else if (k === 'caju') N.treeFruit(f, x, GY, z, s, '#E04A3A', rnd);
+    else if (k === 'banana') N.banana(f, x, GY, z, s, rnd);
+    else if (k === 'palm') N.palm(f, x, GY, z, s, rnd, 0.3);
+    else N.treeRound(f, x, GY, z, s, '#5DAE57', '#4C9A4A', rnd);
     occupy(x, z, 1.6 * s);
   }
   // árvores extras na borda + arbustos + flores + pedras (detalhe)
@@ -511,7 +511,7 @@ export function buildVila(ctx) {
     if (Math.abs(Math.atan2(22, 62) - a) < 0.15) continue; // ponte
     if (!free(x, z, 1.8)) continue;
     const s = 0.9 + rnd() * 0.5;
-    if (rnd() < 0.3) N.palm(m, x, GY, z, s, rnd, 0.35); else N.treeRound(m, x, GY, z, s, ['#5DAE57', '#68B85C', '#4FA350'][placed % 3], '#4C9A4A', rnd);
+    if (rnd() < 0.3) N.palm(f, x, GY, z, s, rnd, 0.35); else N.treeRound(f, x, GY, z, s, ['#5DAE57', '#68B85C', '#4FA350'][placed % 3], '#4C9A4A', rnd);
     occupy(x, z, 1.8 * s); placed++;
   }
   for (let i = 0; i < 700; i++) {

diff --git a/docs/propostas/06-fonema-unificada/arquitetura-infra/fontes/offline-sala-de-aula.html b/docs/propostas/06-fonema-unificada/arquitetura-infra/fontes/offline-sala-de-aula.html
@@ -6,7 +6,7 @@
 .meio{display:grid;grid-template-columns:1040px 1fr;gap:110px}
 .escola>.rot{background:var(--verde)}.nuvem>.rot{background:var(--laranja)}.nuvem{border-color:#F0B37E;background:#FFFBF6}
 .esc{display:grid;grid-template-columns:1fr 300px;gap:20px}
-.tabs{display:grid;grid-template-columns:1fr 1fr;gap:14px}
+.tabs{display:grid;grid-template-columns:1fr 1fr;gap:14px;border:2.5px dashed #8E76D0;border-radius:16px;padding:30px 10px 10px;position:relative}.tabs:before{content:"rede local da sala (Wi-Fi sem internet) ↔ hub da professora";position:absolute;top:6px;left:12px;font-size:13.5px;font-weight:700;color:var(--roxo)}
 .tab{border:3px solid #2B3445;border-radius:18px;padding:10px 12px;background:#fff}
 .tab h3{font-size:16px}.tab p{font-size:13.5px;line-height:1.35;color:#2D3748}
 .tab .chips .chip{font-size:12.8px}
@@ -56,8 +56,6 @@ desenhar([
  ['t1','t2',{de:'r',para:'l',horiz:true}],['t2','t3',{de:'r',para:'l',horiz:true}],['t3','t4',{de:'r',para:'l',horiz:true}],
  ['cdn','escola',{de:'l',para:'r',cor:'#0E7480',horiz:true,rot:'noite: pacotes',t:.5}],
  ['ps','escola',{de:'l',para:'r',cor:'#1E7A4C',tr:true,horiz:true,rot:'dados da turma',t:.5}],
- ['escola','api',{de:'r',para:'l',cor:'#1F5FAD',duplo:false,horiz:false,rot:'depois: lotes',t:.5,da:150}],
- ['hub','tb2',{de:'l',para:'r',cor:'#5B3FA6',tr:true,duplo:true}],
- ['hub','tb4',{de:'l',para:'r',cor:'#5B3FA6',tr:true,duplo:true}],
+ ['api','escola',{de:'l',para:'r',cor:'#1F5FAD',horiz:true,rot:'depois: lotes',t:.5,inverso:true}],
 ]);
 </script></body></html>

diff --git a/docs/propostas/06-fonema-unificada/personagens/fonte/pages.js b/docs/propostas/06-fonema-unificada/personagens/fonte/pages.js
@@ -255,7 +255,7 @@ function telaEspelho() {
   // palco principal
   g += `<rect x="20" y="108" width="${W - 40}" height="672" rx="40" fill="#FFFBF4" stroke="${P.line}" stroke-opacity=".08" stroke-width="2"/>`;
   // Sofia
-  g += `<defs><clipPath id="stage"><rect x="20" y="108" width="${W - 40}" height="672" rx="40"/></clipPath></defs><g clip-path="url(#stage)"><g transform="translate(190,272) scale(.72)">${S.sofia({ expr: { eyes: 'open', mouth: 6, b: [-8, 0, -8, 0], look: [6, 0], blush: 1 }, letter: 'M', armR: { t: [236, 330], hand: 'point', hrot: -30 } })}</g></g>`;
+  g += `<defs><clipPath id="stage"><rect x="20" y="108" width="${W - 40}" height="672" rx="40"/></clipPath></defs><g clip-path="url(#stage)"><g transform="translate(190,272) scale(.72)">${S.sofia({ expr: { eyes: 'open', mouth: 6, b: [-8, 0, -8, 0], look: [6, 0], blush: 1 }, letter: 'M', armR: { t: [222, 470], hand: 'point', hrot: -20 } })}</g></g>`;
   // balão de fala
   g += `<g transform="translate(46,132)"><rect width="300" height="150" rx="28" fill="#fff" stroke="${P.line}" stroke-opacity=".12" stroke-width="2"/><path d="M150,148 l18,22 l14,-24z" fill="#fff"/>
     <text x="24" y="46" font-size="25" fill="${P.ink}">Fecha os lábios…</text><text x="24" y="80" font-size="25" fill="${P.ink}">o som sai pelo nariz:</text><text x="24" y="118" font-size="30" font-weight="700" fill="${P.cons}">mmmm!</text>

diff --git a/docs/propostas/06-fonema-unificada/arquitetura-infra/fontes/setas.js b/docs/propostas/06-fonema-unificada/arquitetura-infra/fontes/setas.js
@@ -25,7 +25,7 @@ function desenhar(lista){
     const path=document.createElementNS(ns,'path');
     path.setAttribute('d',`M${p1} C${c1} ${c2} ${p2}`);path.setAttribute('fill','none');path.setAttribute('stroke',c);
     path.setAttribute('stroke-width',o.w||2.6);if(o.tr)path.setAttribute('stroke-dasharray','8 6');
-    path.setAttribute('marker-end',`url(#${marcador(c)})`);if(o.duplo)path.setAttribute('marker-start',`url(#${marcador(c)})`);svg.appendChild(path);
+    if(!o.inverso)path.setAttribute('marker-end',`url(#${marcador(c)})`);else path.setAttribute('marker-start',`url(#${marcador(c)})`);if(o.duplo)path.setAttribute('marker-start',`url(#${marcador(c)})`);svg.appendChild(path);
     if(o.rot)rotulos.push([path,o,c]);}
   pg.appendChild(svg);
   for(const [path,o,c] of rotulos){const t=o.t??0.5;const P=path.getPointAtLength(path.getTotalLength()*t);
